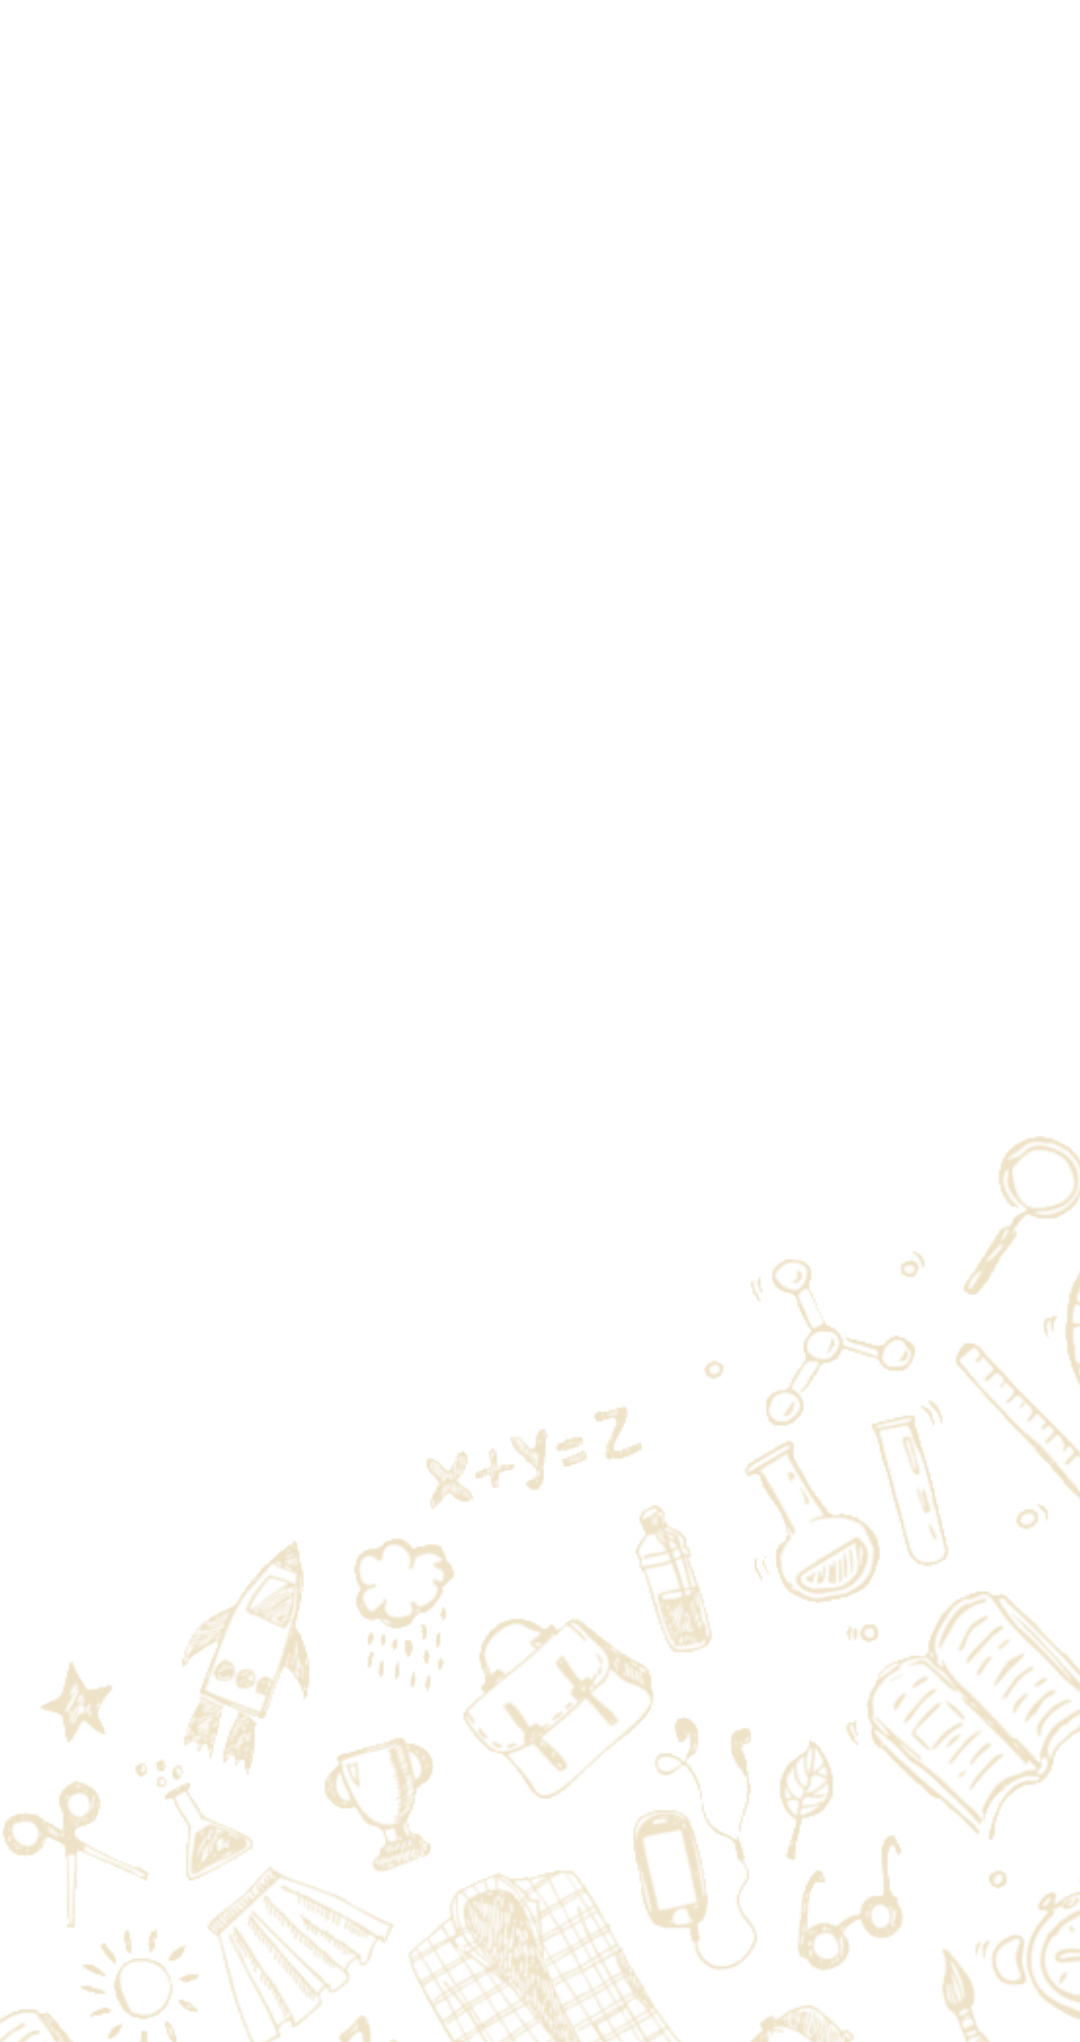
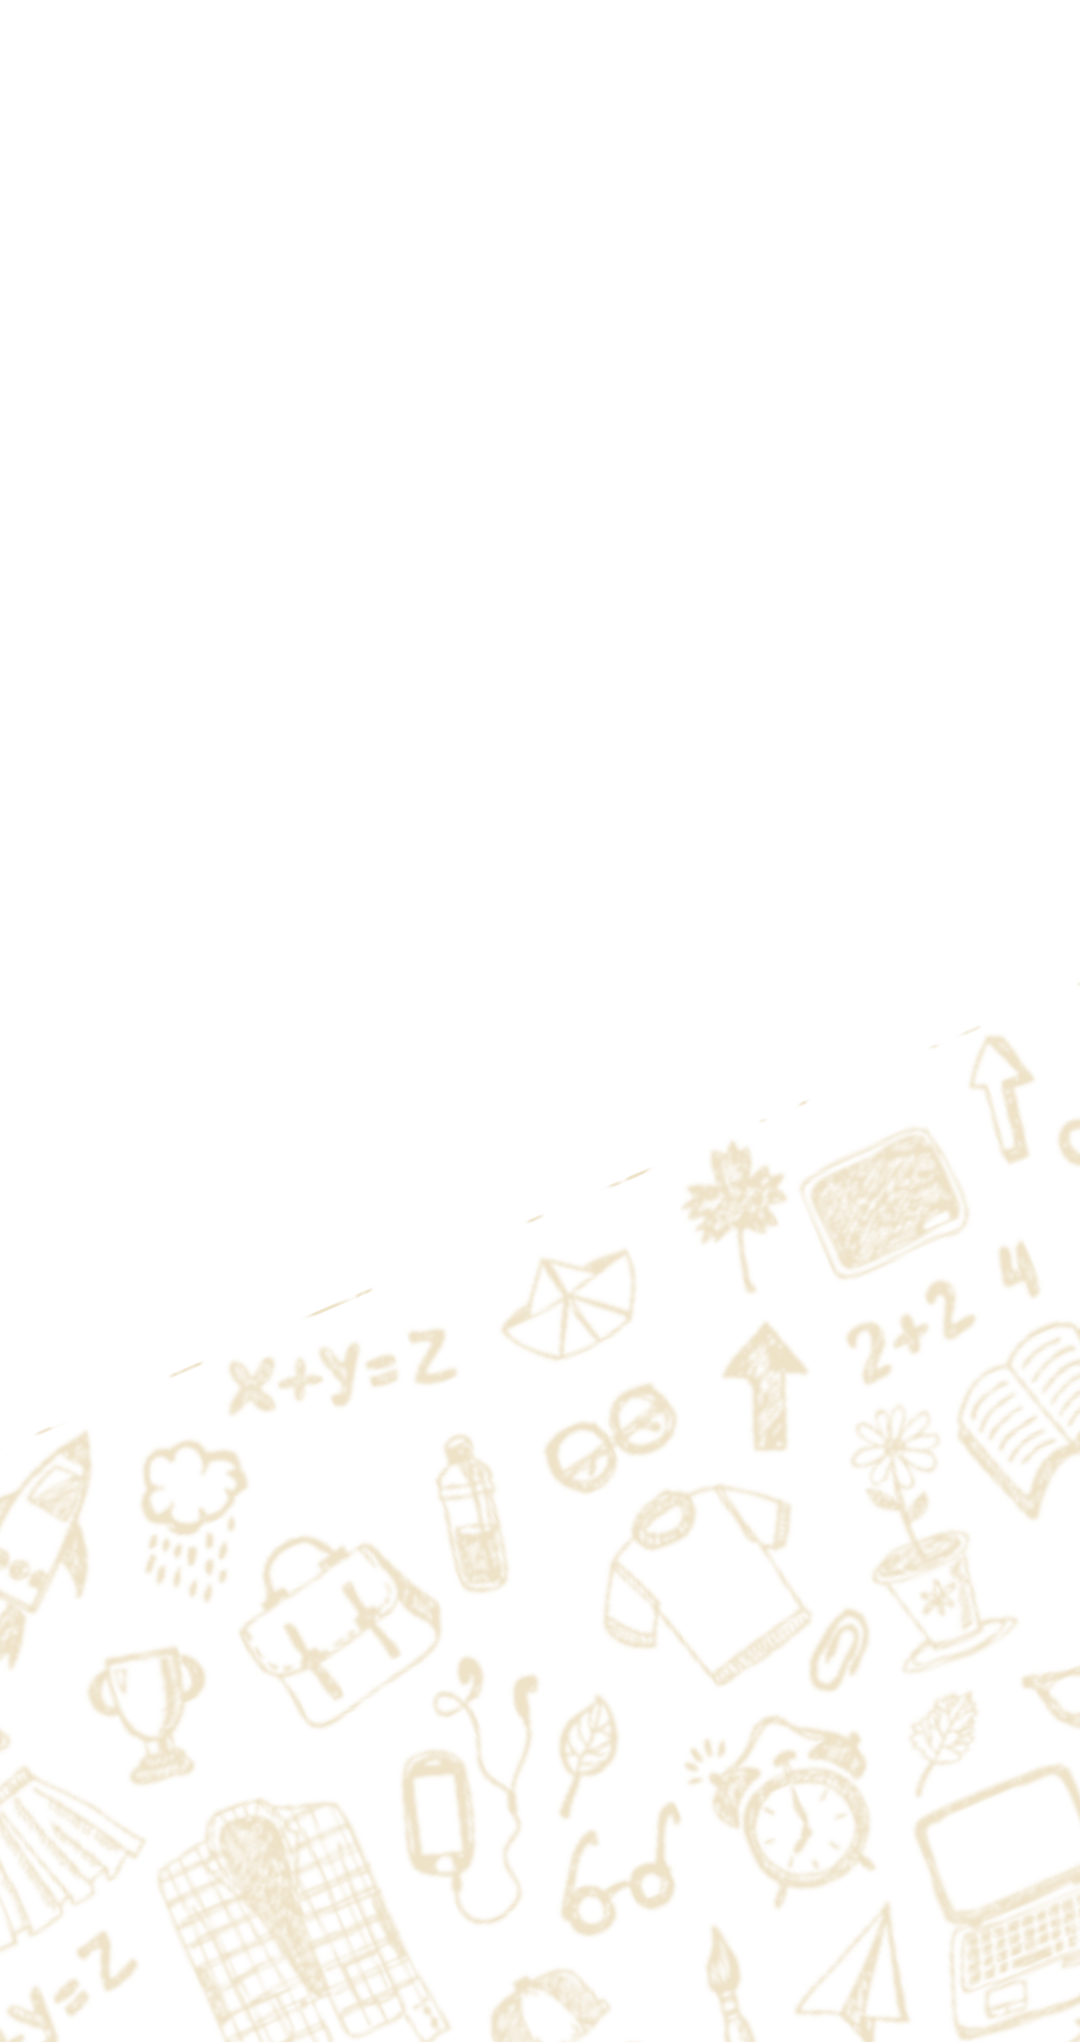
Refactor code structure for improved readability and maintainability

Changed region(s): [[0.0, 0.4936, 1.0, 1.0], [0.0, 0.6787, 0.0917, 0.833]]

diff --git a/FOLIUM/css/dark-mode.css b/FOLIUM/css/dark-mode.css
@@ -725,3 +725,40 @@ body.dark .sup-section-head small,
 body.dark .sup-section-head span {
   color: rgba(234,221,200,0.45);
 }
+
+/* ━━━ DARK MODE BACKGROUND IMAGES ━━━━━━━━━━━━━━━━━━━━━━━━━━ */
+
+/* ── Home page ───────────────────────────────────────────── */
+body.dark .page-home {
+  background-image: url("../../assets/images/doodles-mobile-dark.png");
+}
+
+@media (min-width: 900px) {
+  body.dark .page-home {
+    background-image: url("../../assets/images/doodles-desktop-home-dark.png");
+  }
+}
+
+/* ── All non-home pages (mobile) ─────────────────────────── */
+body.dark .page-login,
+body.dark .page-suporte,
+body.dark .page-folhas,
+body.dark .page-escolher,
+body.dark .page-criar,
+body.dark .page-mapa,
+body.dark .page-materia {
+  background-image: url("../../assets/images/doodles-mobile-fullscreen-dark.png");
+}
+
+/* ── All non-home pages (desktop) ────────────────────────── */
+@media (min-width: 900px) {
+  body.dark .page-login,
+  body.dark .page-suporte,
+  body.dark .page-folhas,
+  body.dark .page-escolher,
+  body.dark .page-criar,
+  body.dark .page-mapa,
+  body.dark .page-materia {
+    background-image: url("../../assets/images/doodles-desktop-fullscreen-dark.png");
+  }
+}

diff --git a/FOLIUM/css/pages/criar.css b/FOLIUM/css/pages/criar.css
@@ -1,9 +1,9 @@
 .page-criar {
   background-color: var(--cream);
-  background-image: url("../../assets/images/doodles-mobile.png");
+  background-image: url("../../assets/images/doodles-mobile-fullscreem.png");
   background-repeat: no-repeat;
-  background-position: bottom center;
-  background-size: 100% auto;
+  background-position: center;
+  background-size: cover;
   min-height: 100dvh;
   position: relative;
 }
@@ -14,33 +14,15 @@
 @media (min-width: 900px) {
   .page-criar {
     margin-left: 0 !important;
-    background-image: none;
+    background-image: url("../../assets/images/doodles-desktop-fullscreen.png");
+    background-size: cover;
+    background-position: center;
+    background-attachment: fixed;
     overflow-x: hidden;
   }
   .page-criar::before,
   .page-criar::after {
-    content: "";
-    position: fixed;
-    left: 0;
-    right: 0;
-    height: 50vh;
-    background-image: url("../../assets/images/doodles-mobile.png");
-    background-repeat: no-repeat;
-    background-size: 100% auto;
-    pointer-events: none;
-    opacity: 0.55;
-    z-index: 0;
-  }
-
-  .page-criar::after {
-    bottom: 0;
-    background-position: bottom center;
-  }
-
-  .page-criar::before {
-    top: 0;
-    background-position: bottom center;
-    transform: scale(-1, -1);
+    display: none;
   }
 
   .page-criar > * {

diff --git a/FOLIUM/css/pages/materia.css b/FOLIUM/css/pages/materia.css
@@ -1,3 +1,24 @@
+.page-materia {
+  background-image: url("../../assets/images/doodles-mobile-fullscreem.png");
+  background-repeat: no-repeat;
+  background-position: center;
+  background-size: cover;
+  min-height: 100dvh;
+}
+
+.page-materia #bg-canvas {
+  display: none;
+}
+
+@media (min-width: 900px) {
+  .page-materia {
+    background-image: url("../../assets/images/doodles-desktop-fullscreen.png");
+    background-size: cover;
+    background-position: center;
+    background-attachment: fixed;
+  }
+}
+
 .materia-body {
   flex: 1;
   overflow-y: auto;

diff --git a/FOLIUM/css/pages/mapa.css b/FOLIUM/css/pages/mapa.css
@@ -2,6 +2,22 @@
   display: none;
 }
 
+.page-mapa {
+  background-image: url("../../assets/images/doodles-mobile-fullscreem.png");
+  background-repeat: no-repeat;
+  background-position: center;
+  background-size: cover;
+}
+
+@media (min-width: 900px) {
+  .page-mapa {
+    background-image: url("../../assets/images/doodles-desktop-fullscreen.png");
+    background-size: cover;
+    background-position: center;
+    background-attachment: fixed;
+  }
+}
+
 @media (min-width: 900px) {
   #mpane2.active,
   #mpane3.active,

diff --git a/FOLIUM/js/pages/home.js b/FOLIUM/js/pages/home.js
@@ -162,11 +162,25 @@ const HomePage = {
     const greeting = Helpers.greeting();
 
     const vinicius = document.createElement("img");
-    vinicius.src = "../assets/images/vinicius-fundo.png";
+    const isDark = () => document.body.classList.contains("dark");
+    vinicius.src = isDark()
+      ? "../assets/images/vinicius-fundo-dark.png"
+      : "../assets/images/vinicius-fundo.png";
     vinicius.alt = "";
     vinicius.className = "desk-vinicius";
     vinicius.setAttribute("aria-hidden", "true");
     page.appendChild(vinicius);
+
+    // Swap Vinicius image whenever dark mode is toggled
+    const _viniciusObserver = new MutationObserver(() => {
+      vinicius.src = isDark()
+        ? "../assets/images/vinicius-fundo-dark.png"
+        : "../assets/images/vinicius-fundo.png";
+    });
+    _viniciusObserver.observe(document.body, {
+      attributes: true,
+      attributeFilter: ["class"],
+    });
 
     const burger = document.createElement("button");
     burger.className = "desk-burger";

diff --git a/FOLIUM/css/pages/escolher.css b/FOLIUM/css/pages/escolher.css
@@ -1,13 +1,22 @@
 .page-escolher {
   background-color: var(--cream);
-  background-image: url("../../assets/images/doodles-mobile.png");
+  background-image: url("../../assets/images/doodles-mobile-fullscreem.png");
   background-repeat: no-repeat;
-  background-position: bottom center;
-  background-size: 100% auto;
+  background-position: center;
+  background-size: cover;
   min-height: 100dvh;
 }
 .page-escolher #bg-canvas {
   display: none;
+}
+
+@media (min-width: 900px) {
+  .page-escolher {
+    background-image: url("../../assets/images/doodles-desktop-fullscreen.png");
+    background-size: cover;
+    background-position: center;
+    background-attachment: fixed;
+  }
 }
 
 .esc-shell {

diff --git a/FOLIUM/css/pages/suporte.css b/FOLIUM/css/pages/suporte.css
@@ -1,13 +1,22 @@
 .page-suporte {
   min-height: 100dvh;
   background-color: var(--cream);
-  background-image: url("../../assets/images/doodles-mobile.png");
+  background-image: url("../../assets/images/doodles-mobile-fullscreem.png");
   background-repeat: no-repeat;
-  background-position: bottom center;
-  background-size: 100% auto;
+  background-position: center;
+  background-size: cover;
 }
 .page-suporte #bg-canvas {
   display: none;
+}
+
+@media (min-width: 900px) {
+  .page-suporte {
+    background-image: url("../../assets/images/doodles-desktop-fullscreen.png");
+    background-size: cover;
+    background-position: center;
+    background-attachment: fixed;
+  }
 }
 
 .sup-shell {

diff --git a/FOLIUM/css/pages/folhas.css b/FOLIUM/css/pages/folhas.css
@@ -8,10 +8,10 @@
 }
 
 .page-folhas {
-  background-image: url("../../assets/images/doodles-mobile.png");
+  background-image: url("../../assets/images/doodles-mobile-fullscreem.png");
   background-repeat: no-repeat;
-  background-position: bottom center;
-  background-size: 100% auto;
+  background-position: center;
+  background-size: cover;
 }
 
 .folhas-body {
@@ -501,7 +501,10 @@
 
 @media (min-width: 900px) {
   .page-folhas {
-    background-image: none;
+    background-image: url("../../assets/images/doodles-desktop-fullscreen.png");
+    background-size: cover;
+    background-position: center;
+    background-attachment: fixed;
   }
 
   .folhas-body {

diff --git a/FOLIUM/css/pages/login.css b/FOLIUM/css/pages/login.css
@@ -1,10 +1,10 @@
 .page-login {
   min-height: 100dvh;
   background-color: var(--cream);
-  background-image: url("../../assets/images/doodles-mobile.png");
+  background-image: url("../../assets/images/doodles-mobile-fullscreem.png");
   background-repeat: no-repeat;
-  background-position: bottom center;
-  background-size: 100% auto;
+  background-position: center;
+  background-size: cover;
   overflow-x: hidden;
 }
 
@@ -572,7 +572,7 @@
 
 @media (min-width: 900px) {
   .page-login {
-    background-image: url("../../assets/images/doodles-desktop.png");
+    background-image: url("../../assets/images/doodles-desktop-fullscreen.png");
     background-size: cover;
     background-position: center;
     background-attachment: fixed;

diff --git a/FOLIUM/css/pages/home.css b/FOLIUM/css/pages/home.css
@@ -234,7 +234,7 @@
 
 @media (min-width: 900px) {
   .page-home {
-    background-image: url("../../assets/images/doodles-desktop.png");
+    background-image: url("../../assets/images/doodles-desktop-home.png");
     background-size: cover;
     background-position: center;
     background-attachment: fixed;

diff --git a/FOLIUM/html/materia.html b/FOLIUM/html/materia.html
@@ -33,7 +33,7 @@
         <p id="ld-sub">Aguarde um momento</p>
       </div>
     </div>
-    <div class="page">
+    <div class="page page-materia">
       <div class="materia-body page-body" id="materia-body">
         <div id="mat-skeleton" aria-hidden="true">
           <div class="skeleton sk-bar" style="height:48px;border-radius:12px;margin-bottom:20px"></div>